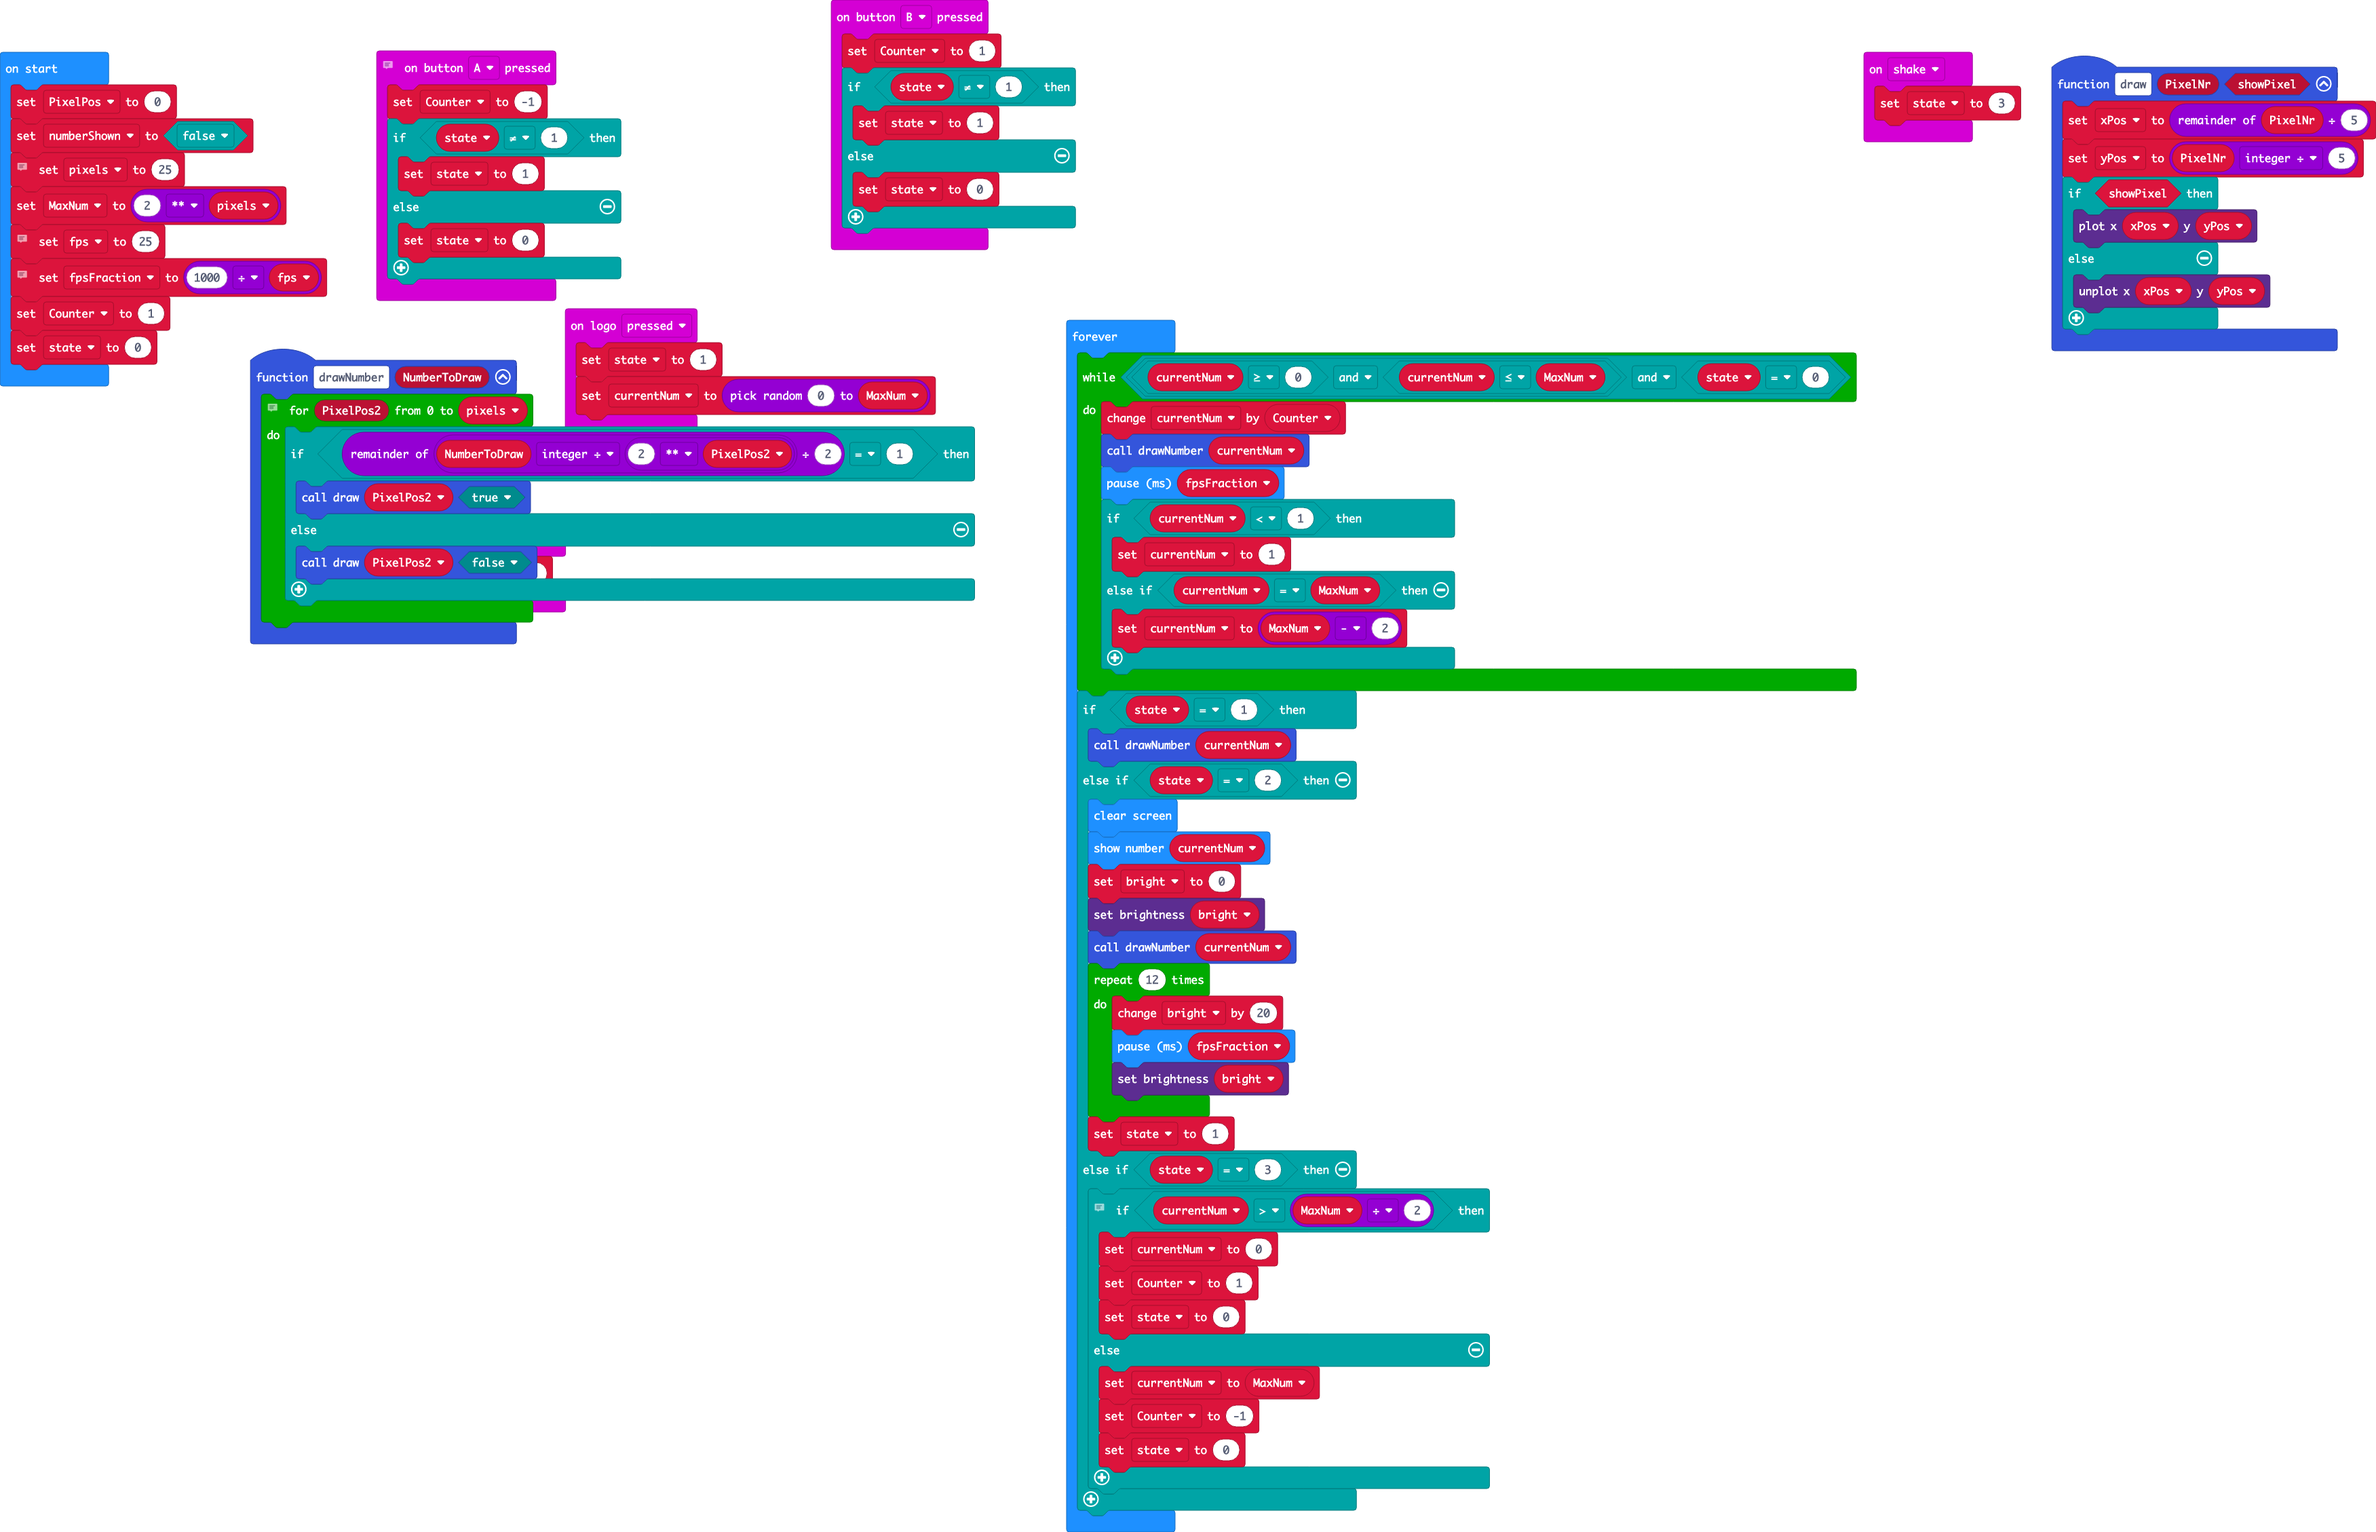
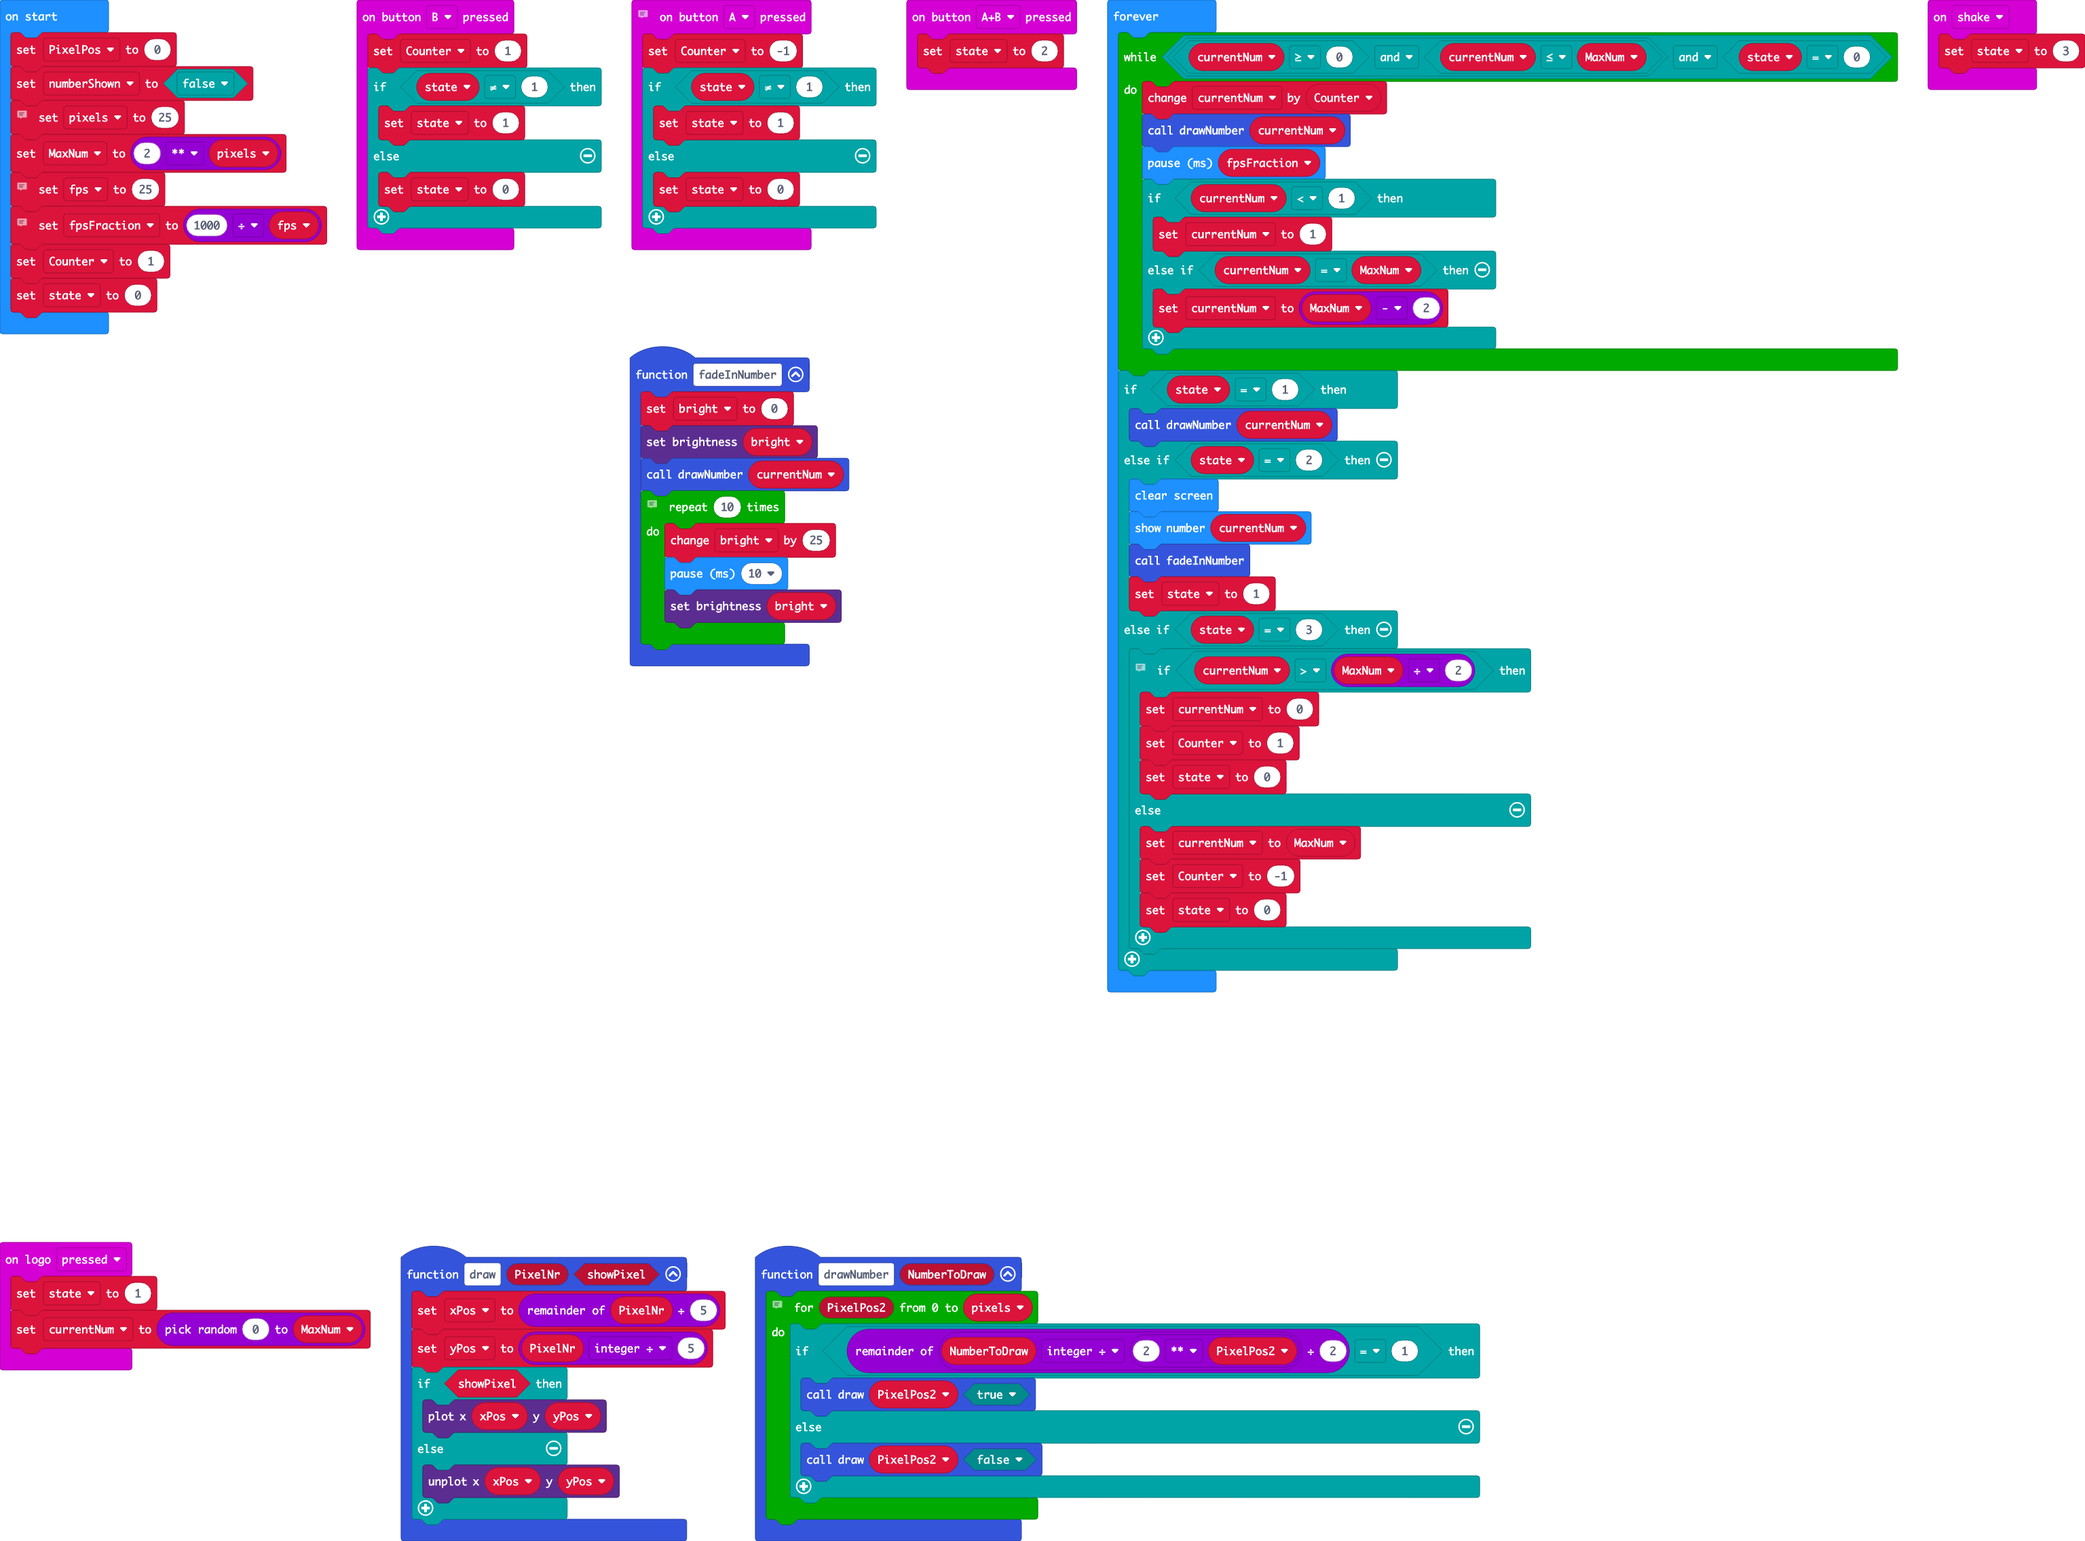
made a function of the fade in animation

diff --git a/main.ts b/main.ts
@@ -19,6 +19,17 @@ function draw (PixelNr: number, showPixel: boolean) {
 input.onButtonPressed(Button.AB, function () {
     state = 2
 })
+function fadeInNumber () {
+    bright = 0
+    led.setBrightness(bright)
+    drawNumber(currentNum)
+    // fades in number
+    for (let index = 0; index < 10; index++) {
+        bright += 25
+        basic.pause(10)
+        led.setBrightness(bright)
+    }
+}
 input.onButtonPressed(Button.B, function () {
     Counter = 1
     if (state != 1) {
@@ -44,8 +55,8 @@ input.onLogoEvent(TouchButtonEvent.Pressed, function () {
     state = 1
     currentNum = randint(0, MaxNum)
 })
-let bright = 0
 let currentNum = 0
+let bright = 0
 let yPos = 0
 let xPos = 0
 let state = 0
@@ -79,14 +90,7 @@ basic.forever(function () {
     } else if (state == 2) {
         basic.clearScreen()
         basic.showNumber(currentNum)
-        bright = 0
-        led.setBrightness(bright)
-        drawNumber(currentNum)
-        for (let index = 0; index < 12; index++) {
-            bright += 20
-            basic.pause(fpsFraction)
-            led.setBrightness(bright)
-        }
+        fadeInNumber()
         state = 1
     } else if (state == 3) {
         // If working on a large number start from zero
